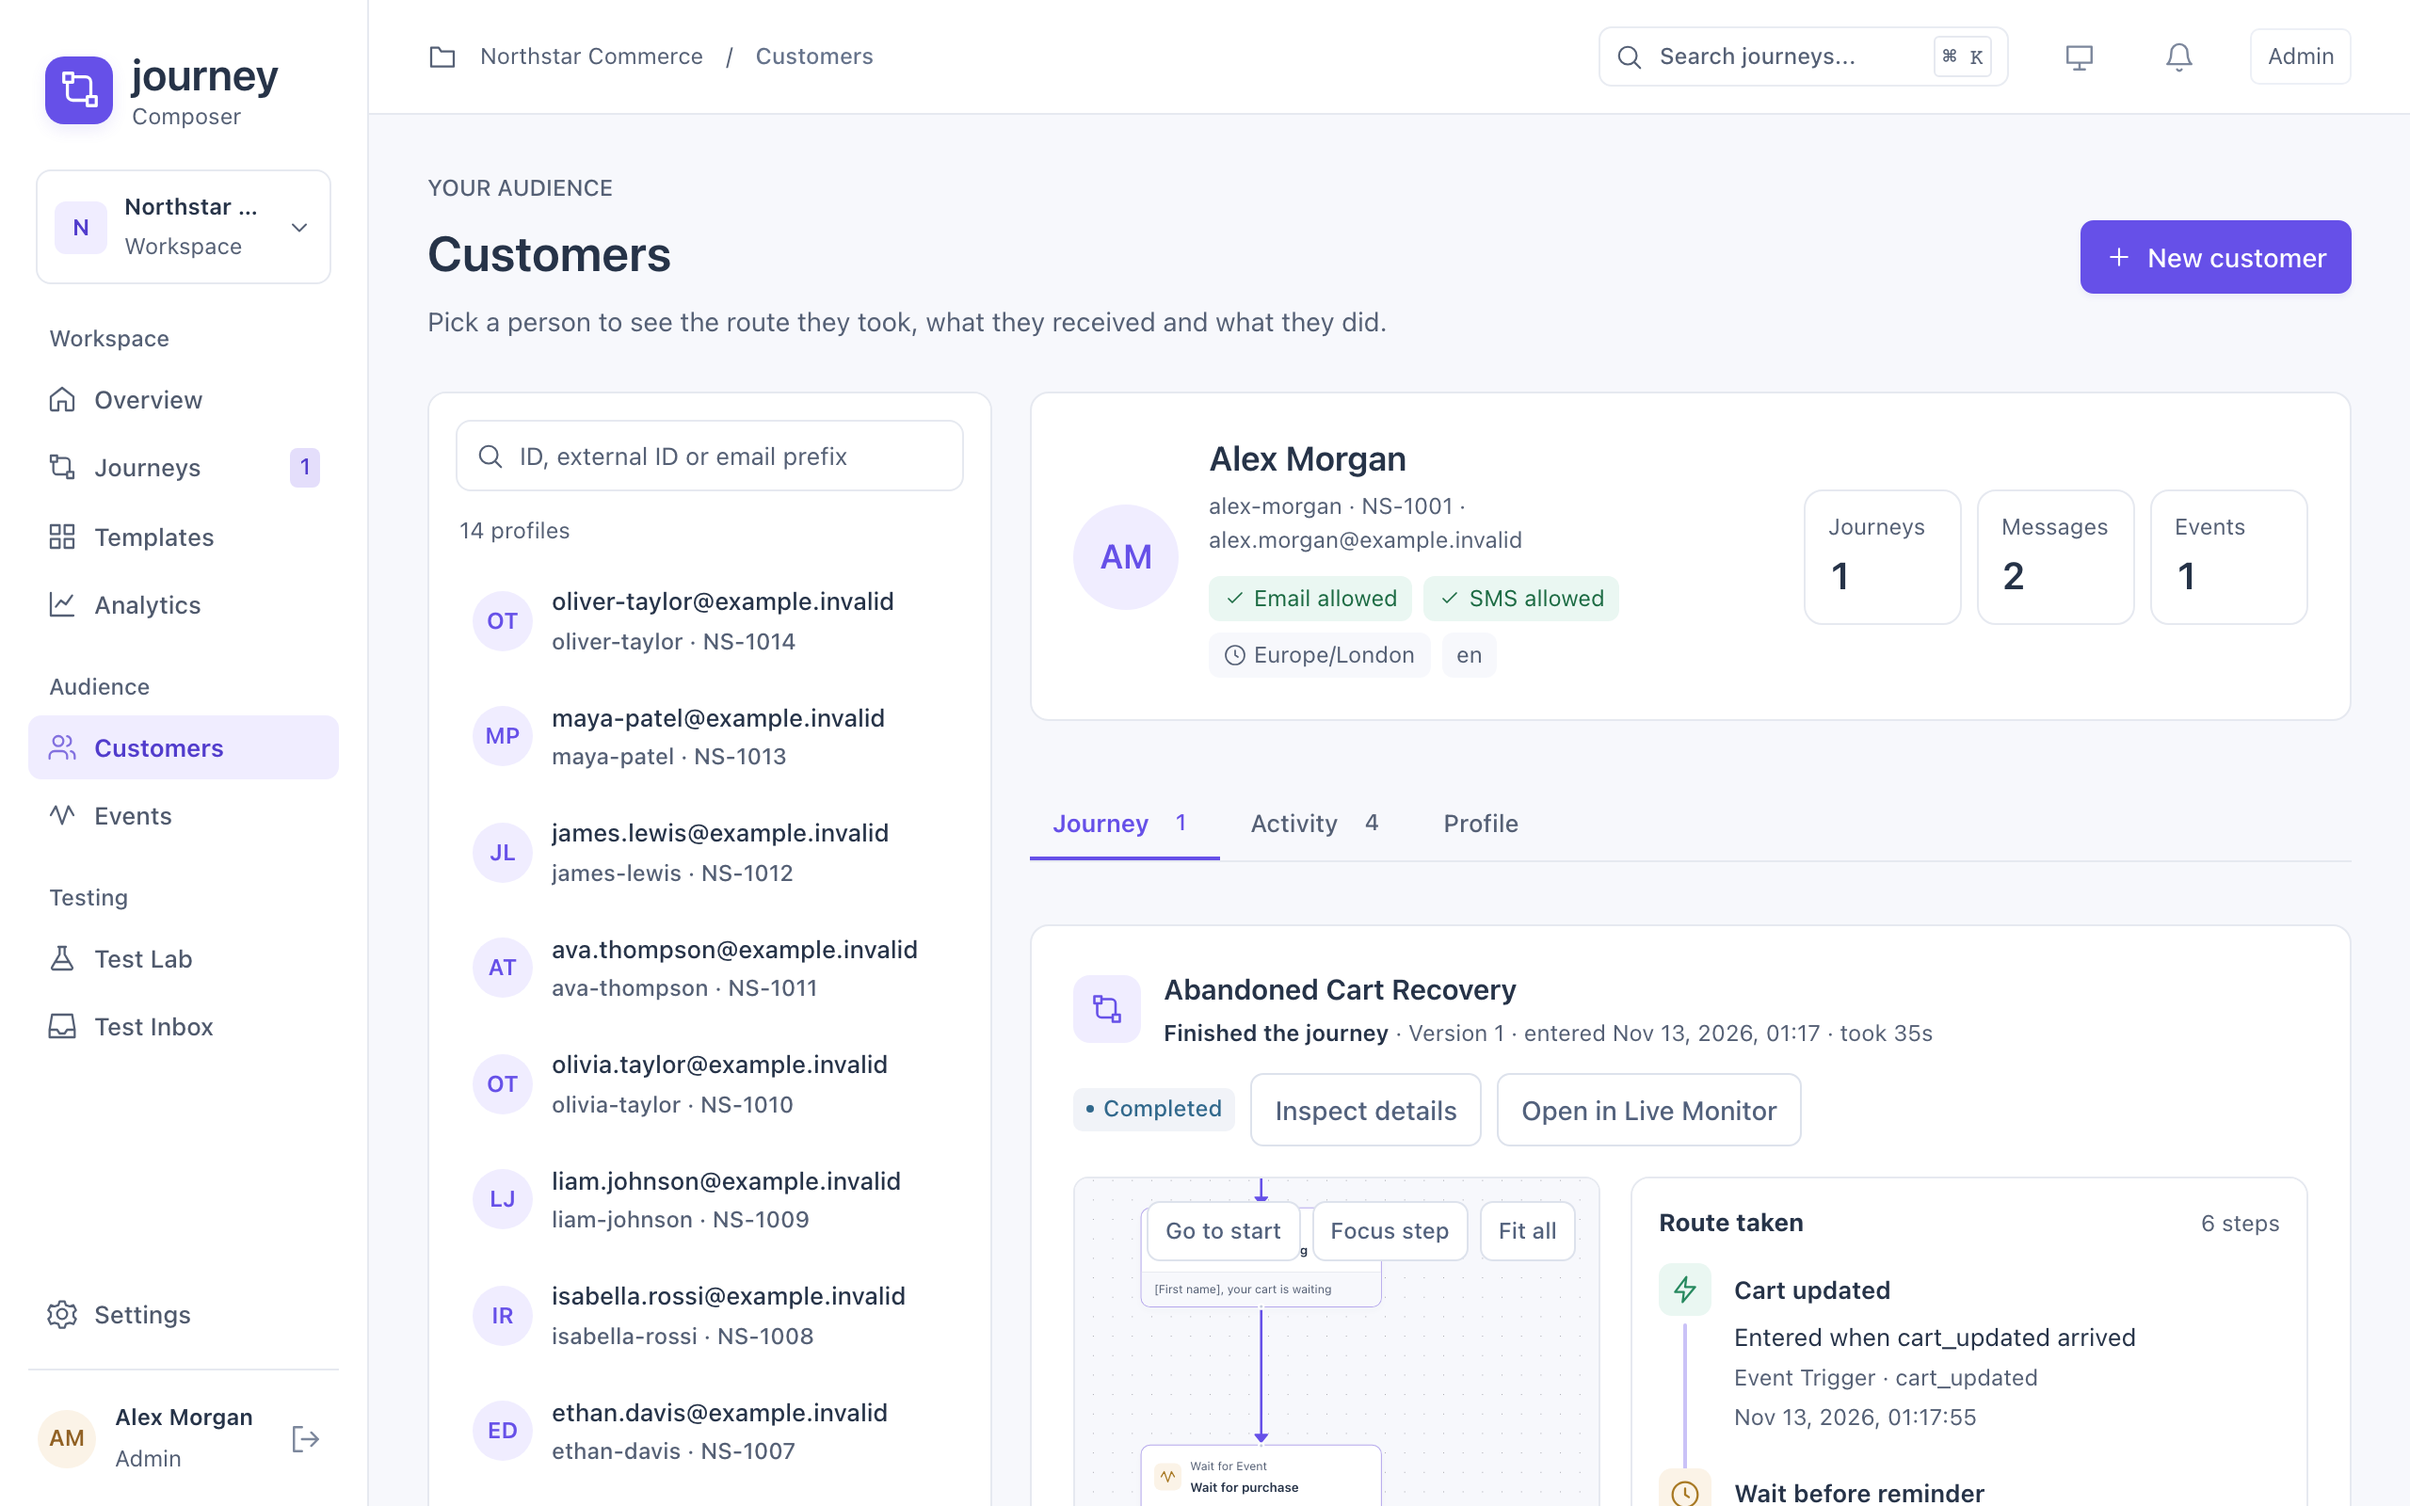
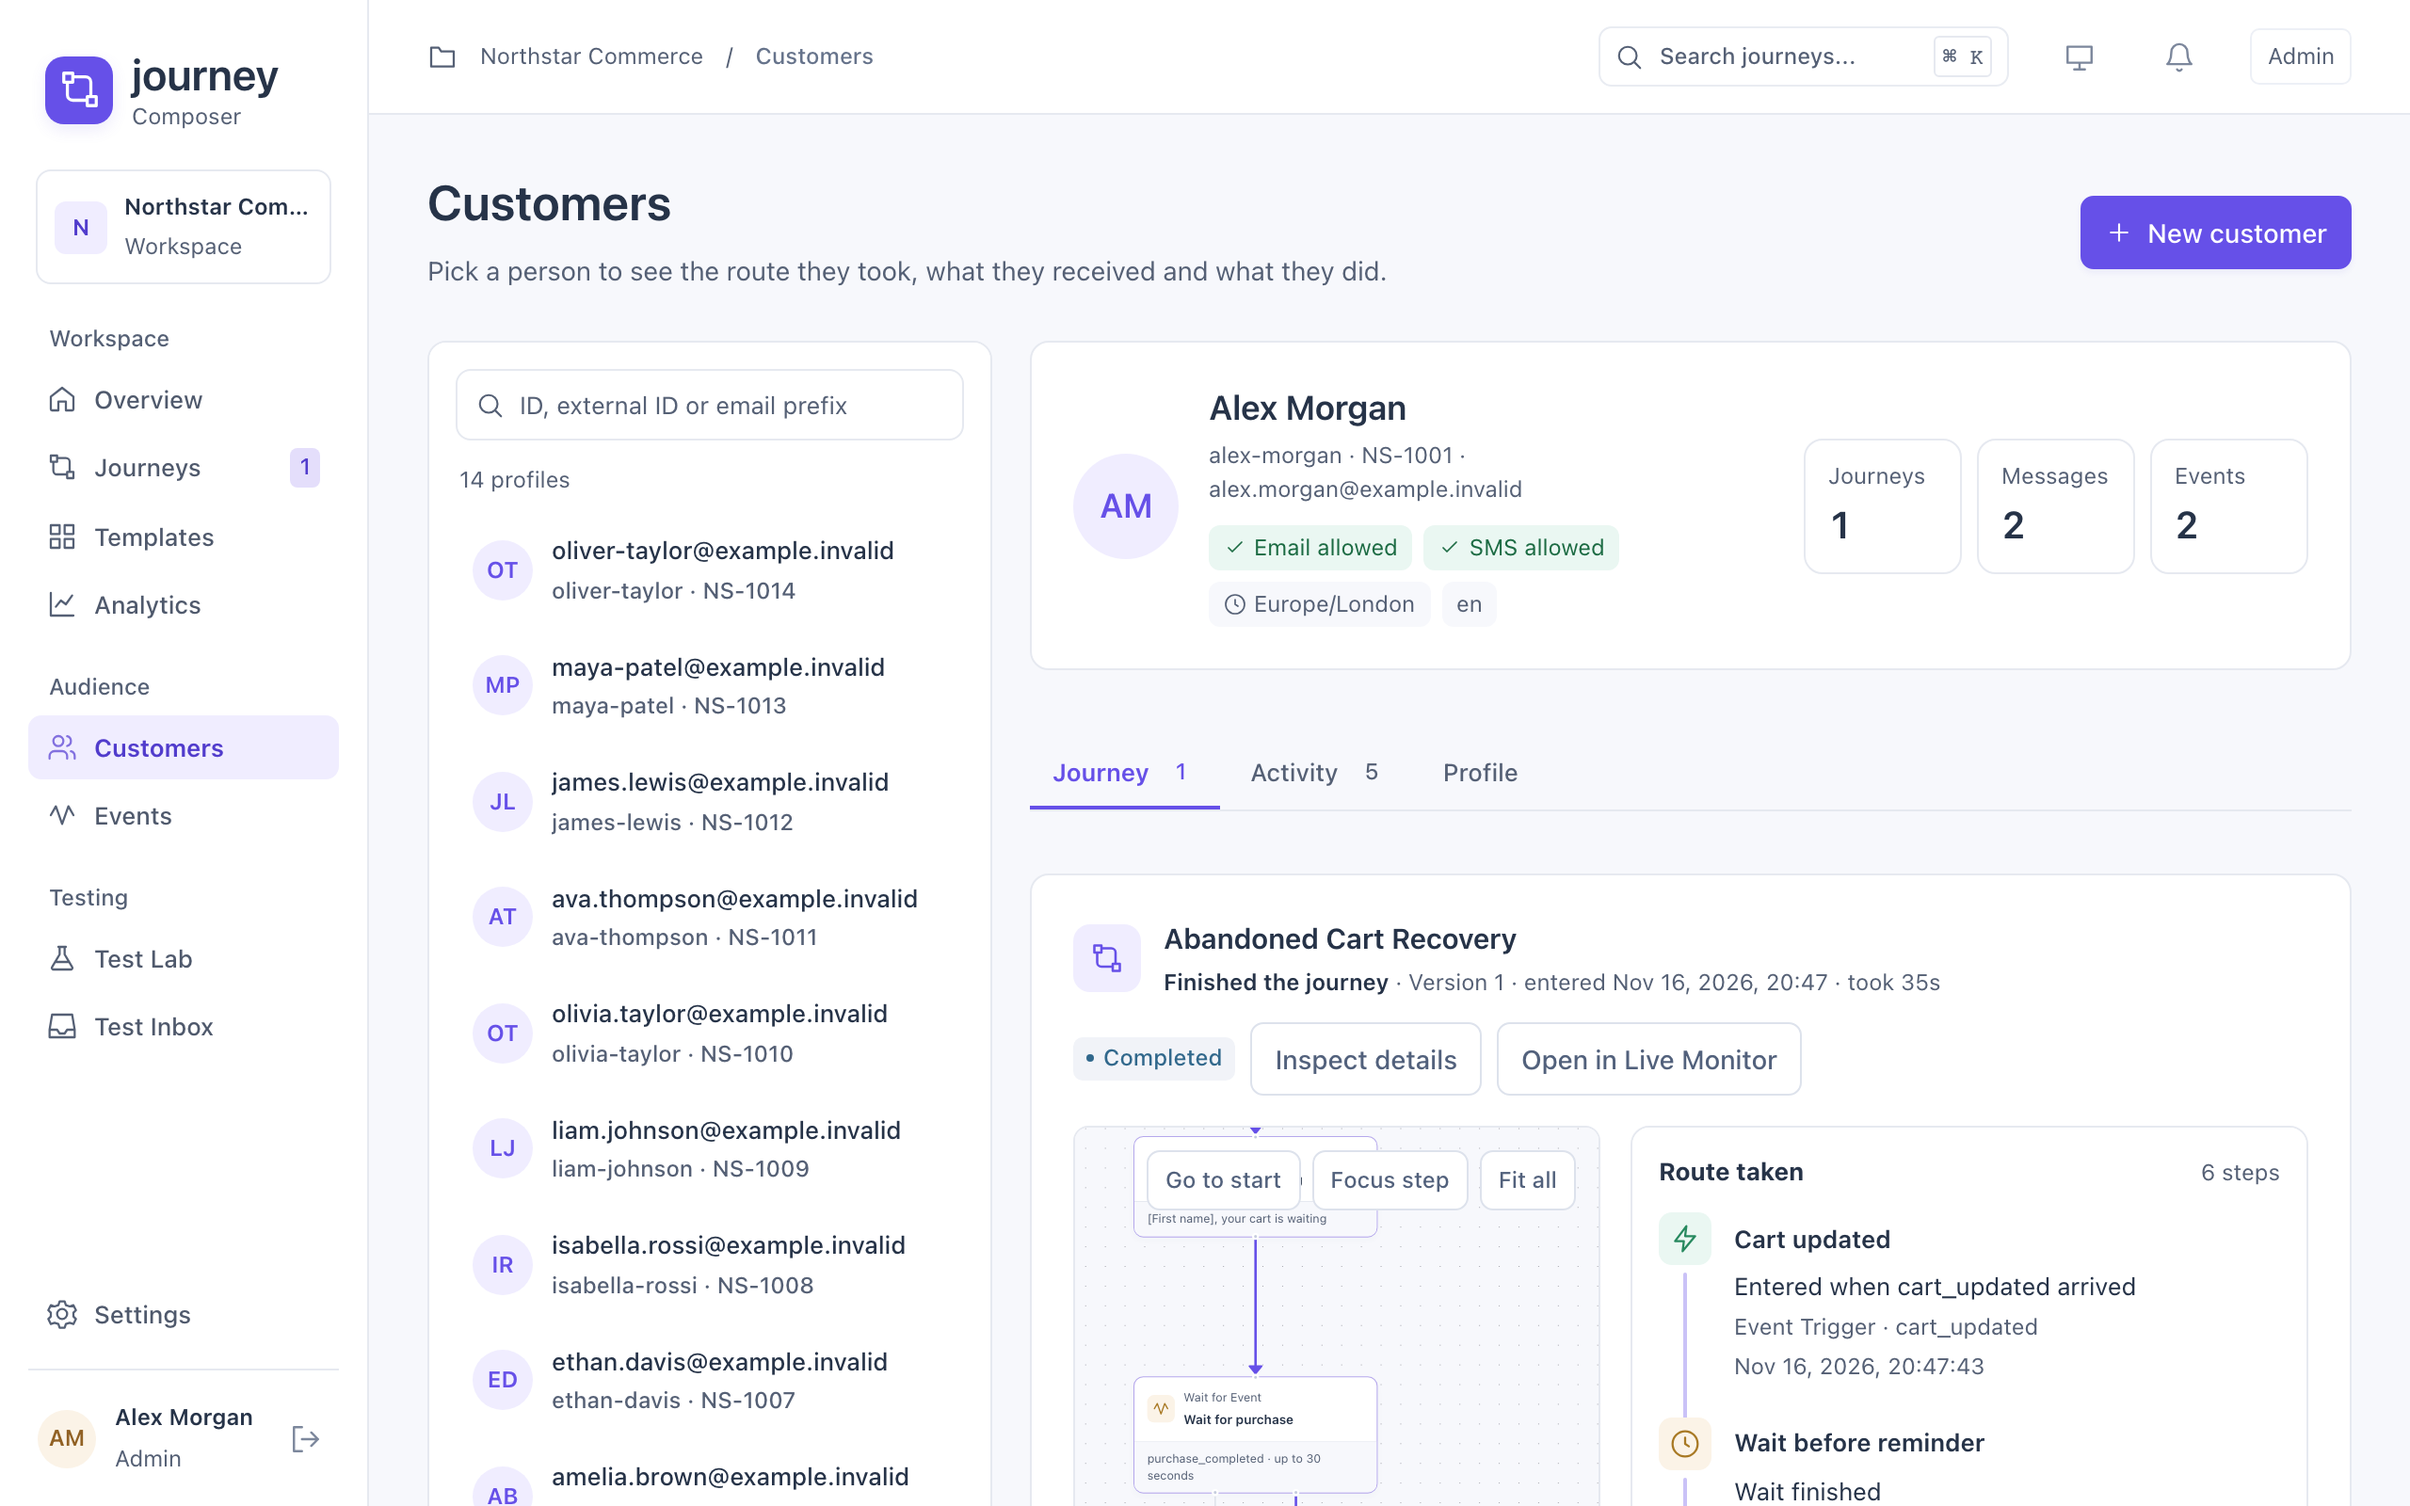
docs: refresh product screenshots and steady the builder capture

diff --git a/docs/IMPLEMENTATION.md b/docs/IMPLEMENTATION.md
@@ -290,6 +290,18 @@ Not covered:
 
 - The check's live cost was measured afterwards on the ten reviewed briefs: [live-factcheck-2026-11-15](reports/live-factcheck-2026-11-15.md). It refused nothing and caused no repair. How often it catches an invented fact live is not measured.
 
+## Screenshot refresh — 2026-11-17
+
+The eighth group from the design review.
+
+- The 13 product screenshots were recaptured with `npm run screenshots:product` on the local Docker stack. They now show the redesigned Test Inbox, the new journey header line and the plain labels.
+- The builder shot dragged the canvas from a fixed point. Selecting a step had scrolled the canvas box, so the drag started on the tabs, selected header text and cut off the left branch. The script now resets that scroll, pans from empty canvas beside the selected step so both branches fit, and stops if the start point is not on the canvas.
+
+Verified locally:
+
+- Every screenshot was checked by eye. `docs/images/manifest.json` records the source commit.
+- `make fmt-check`, `make lint`, `make typecheck`, `make test`, `git diff --check`.
+
 ## Plain labels and AI setup guidance — 2026-11-17
 
 The seventh group from the design review.
